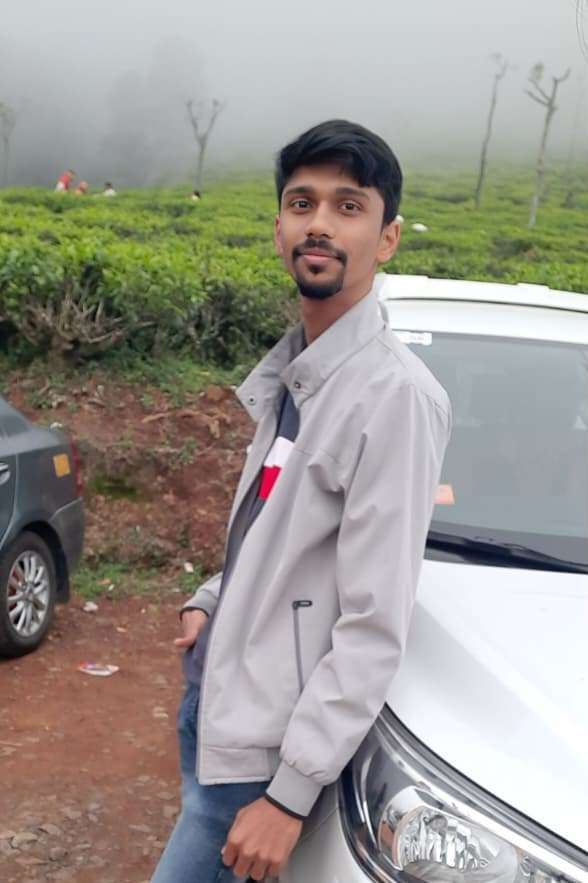
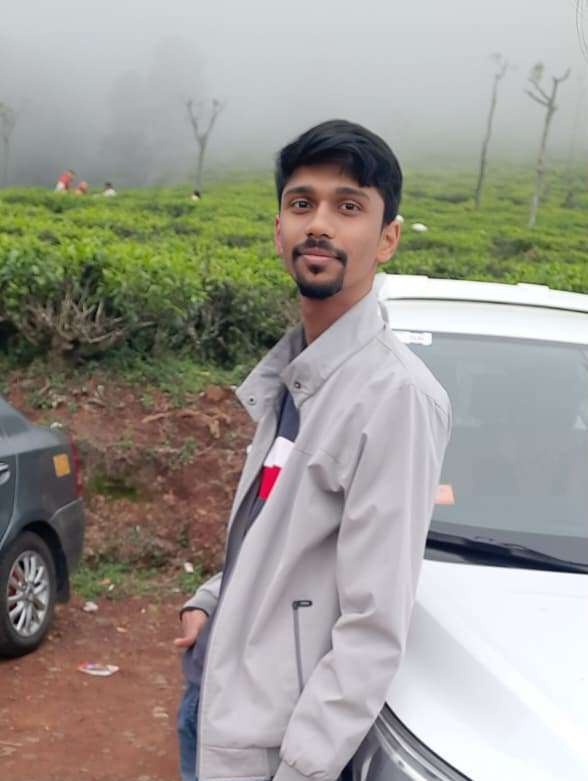
updated members page

diff --git a/apps/client/src/components/Navbar.tsx b/apps/client/src/components/Navbar.tsx
@@ -108,23 +108,23 @@ export function Navbar({
           onMouseLeave={() => setShowTeamDropdown(false)}
         >
           <button
-  className={`flex items-center gap-1 text-sm font-semibold ${
+  className={`flex items-center gap-1 text-sm font-semibold leading-none ${
     ["office-bearers", "executive-members", "members"].includes(currentPage)
       ? "text-white"
       : "text-slate-300 hover:text-white"
   }`}
 >
             {item.label}
-            <ChevronDown size={16} />
+            <ChevronDown size={14} className="mt-[1px]" />
           </button>
 
           {showTeamDropdown && (
-            <div className="absolute top-full left-0 mt-2 w-56 bg-white rounded-lg shadow-xl overflow-hidden">
+            <div className="absolute top-full left-0 mt-3 w-60 bg-[#0F172A] border border-white/10 rounded-xl shadow-2xl overflow-hidden">
               {item.dropdown.map((subItem) => (
                 <button
                   key={subItem.id}
                   onClick={() => handleNavClick(subItem.id)}
-                  className="block w-full text-left px-4 py-3 text-sm text-slate-700 hover:bg-slate-100"
+                  className="block w-full text-left px-5 py-3 text-sm font-medium text-slate-300 hover:bg-white/5 hover:text-[#EAB308] transition-all duration-200"
                 >
                   {subItem.label}
                 </button>
@@ -200,7 +200,7 @@ export function Navbar({
           <button
             key={subItem.id}
             onClick={() => handleNavClick(subItem.id)}
-            className="block w-full text-left pl-8 py-2 text-slate-300 hover:text-white"
+            className="block w-full text-left pl-8 py-2 text-slate-300 hover:text-[#EAB308]"
           >
             {subItem.label}
           </button>